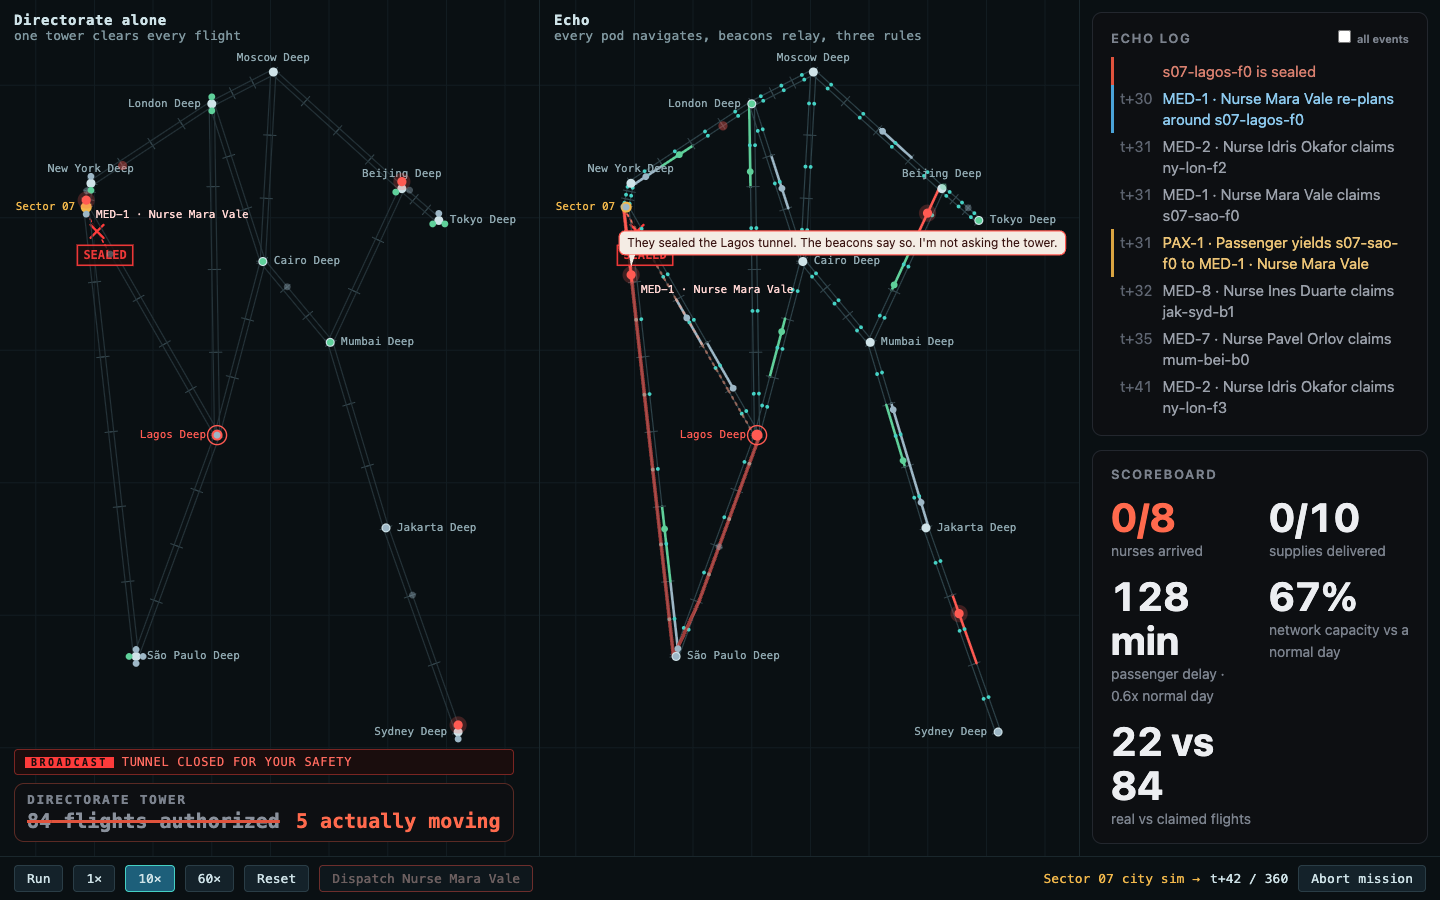
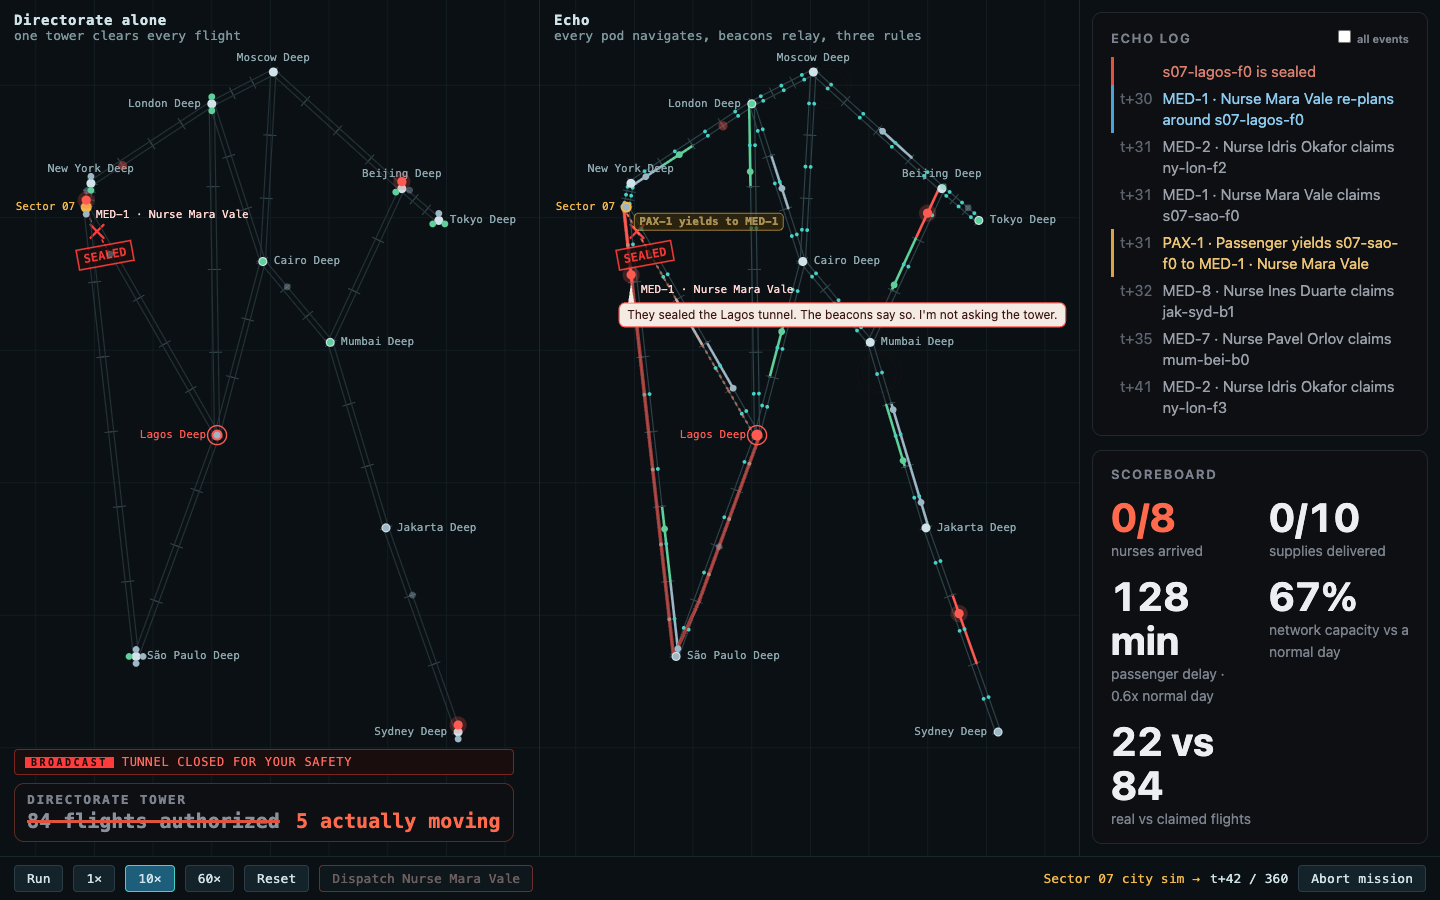
Review fixes from #47: SEALED stamp tilt/pop restored; Mara's card avoids city and pod labels
A joined line had put ctx.rotate/ctx.scale inside a comment. The speech card now tries above, above-left,
below, below-left, then higher, and takes the first spot clear of every city label and Mara's own label.

Changed region(s): [[0.4062, 0.2178, 0.75, 0.3733], [0.0312, 0.2489, 0.0938, 0.3111]]

diff --git a/hollow-world/src/echo-view/map.ts b/hollow-world/src/echo-view/map.ts
@@ -126,19 +126,26 @@ export function podPositions(obs: Observation, project: Projection, frac = 0): M
   return out;
 }
 
-function cityLabel(ctx: CanvasRenderingContext2D, c: City, [x, y]: XY) {
+const LABEL_FONT = "11px ui-monospace, SFMono-Regular, Menlo, monospace";
+type Box = [x: number, y: number, w: number, h: number];
+const overlaps = (a: Box, b: Box) => a[0] < b[0] + b[2] && b[0] < a[0] + a[2] && a[1] < b[1] + b[3] && b[1] < a[1] + a[3];
+
+/** Where a city's name goes: left edge, middle line, width. */
+function labelAt(ctx: CanvasRenderingContext2D, c: City, [x, y]: XY): [number, number, number] {
   const side = LABEL_SIDE[c.id] ?? "r";
+  ctx.font = LABEL_FONT;
+  const wText = ctx.measureText(c.name).width;
+  return side === "t" ? [x - wText / 2, y - 14, wText] :
+    side === "b" ? [x - wText / 2, y + 15, wText] :
+    side === "l" ? [x - 11 - wText, y, wText] : [x + 11, y, wText];
+}
+
+function cityLabel(ctx: CanvasRenderingContext2D, c: City, xy: XY) {
+  const [tx, ty] = labelAt(ctx, c, xy);
   ctx.fillStyle = c.outbreak ? COLORS.outbreak : c.strata ? COLORS.strata : COLORS.label;
-  ctx.font = "11px ui-monospace, SFMono-Regular, Menlo, monospace";
   ctx.textBaseline = "middle";
-  const text = c.name;
-  const wText = ctx.measureText(text).width;
-  const [tx, ty, align] =
-    side === "t" ? [x - wText / 2, y - 14, "left"] :
-    side === "b" ? [x - wText / 2, y + 15, "left"] :
-    side === "l" ? [x - 11 - wText, y, "left"] : [x + 11, y, "left"];
-  ctx.textAlign = align as CanvasTextAlign;
-  ctx.fillText(text, tx, ty);
+  ctx.textAlign = "left";
+  ctx.fillText(c.name, tx, ty);
 }
 
 function drawX(ctx: CanvasRenderingContext2D, [x, y]: XY, r: number) {
@@ -274,7 +281,9 @@ export function drawMap(ctx: CanvasRenderingContext2D, obs: Observation, o: Draw
     const [a, b] = lane(project, s); const m = lerp(a, b, 0.5);
     const k = Math.min(1, Math.max(0, (o.time - st.born) / STAMP_POP_MS));
     ctx.save();
-    ctx.translate(m[0] + 8, m[1] + 24); // below the X, clear of the city and pod labels ctx.rotate(-0.18); ctx.scale(2.2 - 1.2 * k, 2.2 - 1.2 * k);
+    ctx.translate(m[0] + 8, m[1] + 24); // below the X, clear of the city and pod labels
+    ctx.rotate(-0.18);
+    ctx.scale(2.2 - 1.2 * k, 2.2 - 1.2 * k);
     ctx.globalAlpha = 0.3 + 0.62 * k;
     ctx.font = "bold 12px ui-monospace, Menlo, monospace"; ctx.textAlign = "center"; ctx.textBaseline = "middle";
     const tw = ctx.measureText("SEALED").width + 12;
@@ -339,13 +348,19 @@ export function drawMap(ctx: CanvasRenderingContext2D, obs: Observation, o: Draw
       const city = obs.cities.find((c) => c.id === (p.status === "arrived" ? p.dest : p.origin)); // not on the map yet, or arrived
       const at = pos.get(podId) ?? (city ? project([city.x, city.y]) : undefined);
       if (!at) continue;
+      // keep clear of city names and Mara's own label: first spot (above, above-left, below, below-left, higher) that hits none
+      const avoid: Box[] = obs.cities.map((c) => { const [lx, ly, lw] = labelAt(ctx, c, project([c.x, c.y])); return [lx - 2, ly - 8, lw + 4, 16]; });
+      if (pos.has(podId)) { ctx.font = "11px ui-monospace, Menlo, monospace"; avoid.push([at[0] + 8, at[1] + 7, ctx.measureText(p.label).width + 4, 16]); }
       ctx.font = "12px system-ui, -apple-system, sans-serif"; ctx.textAlign = "left"; ctx.textBaseline = "middle";
-      const tw = ctx.measureText(sp.text).width + 16;
-      const x = Math.min(Math.max(4, at[0] - 12), w - tw - 4), y = Math.max(4, at[1] - 44);
+      const tw = ctx.measureText(sp.text).width + 16, th = 24;
+      const fit = ([bx, by]: [number, number]): Box => [Math.min(Math.max(4, bx), w - tw - 4), Math.min(Math.max(4, by), h - th - 4), tw, th];
+      const spots = [[at[0] - 12, at[1] - 44], [at[0] - tw + 12, at[1] - 44], [at[0] - 12, at[1] + 28], [at[0] - tw + 12, at[1] + 28], [at[0] - 12, at[1] - 72]].map((xy) => fit(xy as [number, number]));
+      const [x, y] = spots.find((b) => !avoid.some((a) => overlaps(a, b))) ?? spots[0];
       ctx.globalAlpha = Math.min(1, (SPEECH_MS - age) / 600, age / 150);
       ctx.fillStyle = "#f4ece4"; ctx.strokeStyle = COLORS.medical; ctx.lineWidth = 1.2;
-      ctx.beginPath(); ctx.roundRect(x, y, tw, 24, 6); ctx.fill(); ctx.stroke();
-      ctx.beginPath(); ctx.moveTo(at[0] - 2, y + 24); ctx.lineTo(at[0] + 4, y + 24); ctx.lineTo(at[0], at[1] - 8); ctx.closePath(); ctx.fill();
+      ctx.beginPath(); ctx.roundRect(x, y, tw, th, 6); ctx.fill(); ctx.stroke();
+      const above = y + th <= at[1], edge = above ? y + th : y, tx = Math.min(Math.max(at[0], x + 10), x + tw - 10); // tail toward the pod
+      ctx.beginPath(); ctx.moveTo(tx - 3, edge); ctx.lineTo(tx + 3, edge); ctx.lineTo(at[0], at[1] + (above ? -8 : 8)); ctx.closePath(); ctx.fill();
       ctx.fillStyle = "#3a1512"; ctx.fillText(sp.text, x + 8, y + 12.5);
       ctx.globalAlpha = 1;
     }
